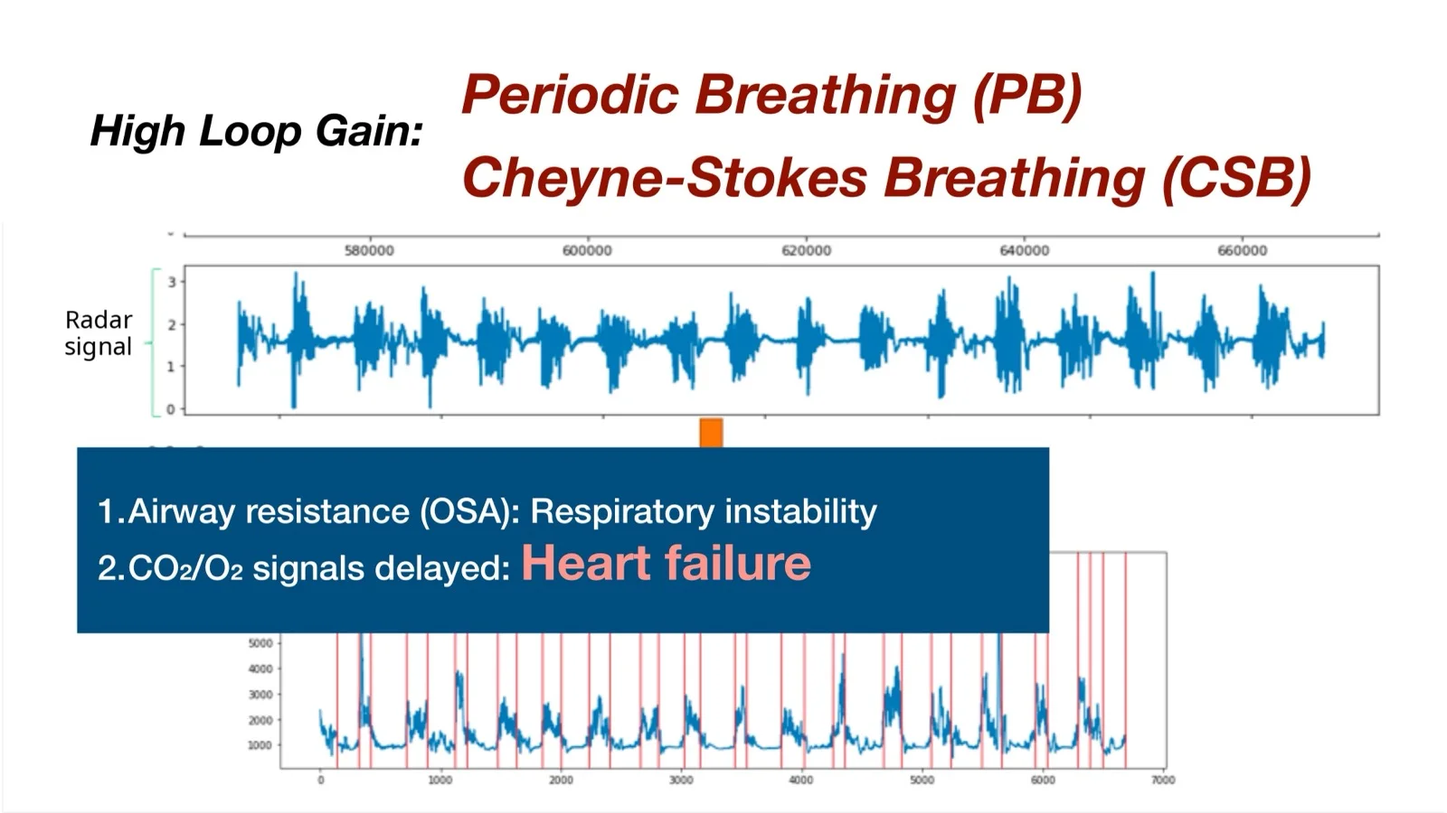
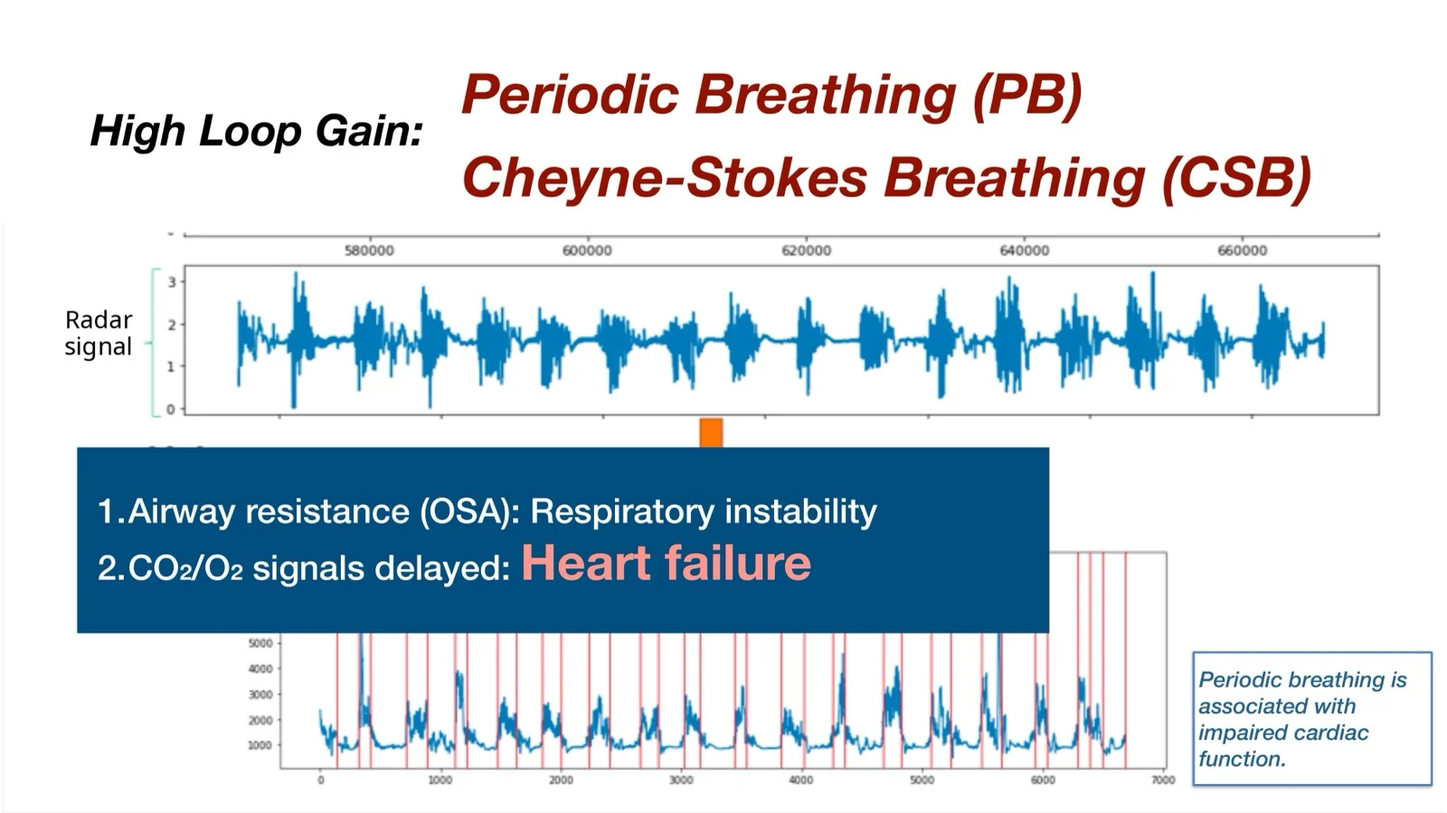
v17.4b: slide 24 box 'Periodic breathing is associated with impaired cardiac function.'; SW v27

Changed region(s): [[0.8125, 0.7778, 1.0, 0.9956]]

diff --git a/data.js b/data.js
@@ -1,2 +1,2 @@
-window.SLIDES=[{"slide": 1, "title": "Non-wearable Devices in Sleep Medicine", "sentences": ["Good morning, everyone. Thank you for inviting me to this Forum on Smart Healthcare.", "I'm Wen-Te Liu, from Pulmonary Medicine at Shuang Ho Hospital.", "Today I'll talk about non-wearable devices in sleep medicine: how we use contactless radar to check breathing during sleep."], "keywords": ["Forum", "Smart", "Healthcare", "Pulmonary", "Medicine", "Shuang", "Hospital", "wearable", "contactless", "breathing"], "seconds": 19.8, "words": 43, "image": "slides/s01.webp?v=26"}, {"slide": 2, "title": "Why is sleep testing so hard?", "sentences": ["Let me start with a simple question: why is sleep testing so hard?", "Look at the waiting room. If we suspect sleep-disordered breathing, we need objective data.", "But getting that data is a real hassle.", "Besides, putting on the sensors for the patient often takes more than 40 minutes, which makes patients anxious.", "And patients have to sleep in a very unnatural setting."], "keywords": ["40", "disordered", "breathing", "objective", "patients", "unnatural"], "seconds": 29.1, "words": 63, "image": "slides/s02.webp?v=26"}, {"slide": 3, "title": "How do today's tests compare?", "sentences": ["Let's look at the options we have now. How do today's tests compare?", "PSG covers all sleep diseases, but it needs 20 or more wires, and patients wait 1 or 2 months.", "Home sleep testing uses 3 wires. An oximeter or an ECG patch can record for 7 to 14 days.", "But they are all uncomfortable, and the patch can cause allergy.", "So we need to move past wearable sensors, from Type I to Type IV, to monitoring with nothing to wear, night after night."], "keywords": ["20", "PSG", "ECG", "diseases", "oximeter", "uncomfortable", "wearable", "monitoring"], "seconds": 39.2, "words": 85, "image": "slides/s03.webp?v=26"}, {"slide": 4, "title": "Wearable sensors for sleep monitoring", "sentences": ["And it's not only clinical tests. There are also many wearable sensors for sleep monitoring.", "They track brain activity, heart activity, movement, respiration, and blood oxygen.", "But every one of them has to be worn on the body.", "So the question is: could non-wearables work?"], "keywords": ["wearable", "monitoring", "activity", "movement", "respiration", "wearables"], "seconds": 20.8, "words": 45, "image": "slides/s04.webp?v=26"}, {"slide": 5, "title": "Radar principle diagram", "sentences": ["Our answer is radar. Here is how it works.", "The radar sends a signal from Tx, and picks up the reflection at Rx.", "When the chest moves a little, the received signal changes, in its time of flight, or ToF, and its phase.", "From the changes, we rebuild the breathing signal, with no wires."], "keywords": ["reflection", "received", "breathing"], "seconds": 24.9, "words": 54, "image": "slides/s05.webp?v=26"}, {"slide": 6, "title": "Here's how it looks at the bedside", "sentences": ["And here's how it looks at the bedside.", "The radar can go on the wall above the bed, on an arm, or on a floor stand.", "Nothing touches the patient."], "keywords": [], "seconds": 13.8, "words": 30, "image": "slides/s06.webp?v=26"}, {"slide": 7, "title": "Our three published studies: sleep lab, home, and heart", "sentences": ["With this setup, our team has done three published studies: sleep lab, home, and heart.", "How it works: a 24-GHz continuous-wave radar, plus deep neural decision trees.", "In Study 1, in the sleep lab, we compared the radar side by side with PSG in 196 patients, and got a strong correlation, r = 0.91.", "In Study 2, we tested 80 patients at home, for 147 nights, with no professional needed to set it up.", "In Study 3, with 72 patients, when the radar picked up periodic breathing, it was linked to lower LVEF."], "keywords": ["24", "196", "0.91", "80", "147", "72", "GHz", "PSG", "LVEF", "Study", "published", "continuous-wave"], "seconds": 42.9, "words": 93, "image": "slides/s07.webp?v=26"}, {"slide": 8, "title": "Study 1: Testing it in the hospital", "sentences": ["Let's start with Study 1: testing it in the hospital.", "Our team published this study in 2024.", "We compared the radar with PSG in 196 patients.", "The setting was a tightly controlled lab, with no outside noise. So we get a clean baseline."], "keywords": ["2024", "196", "PSG", "Study", "hospital", "published", "compared", "patients", "controlled", "baseline"], "seconds": 19.8, "words": 43, "image": "slides/s08.webp?v=26"}, {"slide": 9, "title": "Radar turns tiny chest movements into breathing signals", "sentences": ["Before the results, let's look at the most important question: how does the radar see the breathing?", "It turns tiny chest movements into breathing signals.", "In panel A, normal breathing gives a steady, regular wave.", "Panel B shows a respiratory event. During the apnea episode, the wave gets very small, and then breathing comes back.", "This looks simple. But in real life, it's not simple at all."], "keywords": ["breathing", "movements", "respiratory"], "seconds": 30.9, "words": 67, "image": "slides/s09.webp?v=26"}, {"slide": 10, "title": "Sleep tests watch airflow. Radar watches the chest.", "sentences": ["Why? Because sleep tests watch airflow, while radar watches the chest. They are two different signals.", "In standard scoring, airflow stops, that's apnea, or gets shallow, that's hypopnea. We only see these events when we measure airflow.", "Radar senses the chest rising and falling, not airflow.", "And every patient is different: tall or short, thin or heavy, lying on the back or on the side.", "So if we use a \"normal\" breathing size, and the usual apnea and hypopnea rules, on chest motion, the results can be far off.", "There's one more problem. In an obstructive event, the upper airway is blocked. At first, chest motion drops a lot.", "But as time goes on, the body starts to struggle to breathe.", "A standard sleep test sees no airflow. But the radar sees the chest moving again.", "So judging apnea by the size of chest motion has a big error. This is the biggest blind spot.", "In our first year with the engineering team, we tried many methods. Nothing worked, and we almost gave up.", "The way out was this: the radar has to spot a typical pattern of chest-motion changes.", "That pattern ends with the recovery surge: when an event ends, the airway opens, and the person takes one big breath.", "Let me show you a short video of what this looks like on the radar."], "keywords": ["Radar", "different", "standard", "hypopnea", "obstructive"], "seconds": 104.3, "words": 226, "image": "slides/s10.webp?v=26"}, {"slide": 11, "title": "Video: the radar during an obstructive apnea (1:54)", "sentences": ["So that's the recovery surge the radar picks up."], "keywords": [], "seconds": 4.2, "words": 9, "image": "slides/s11.webp?v=26"}, {"slide": 12, "title": "Does the radar agree with the clinical gold standard?", "sentences": ["Now, the key question for Study 1: does the radar agree with the clinical gold standard?", "On the left is the full sleep study in the hospital, PSG. On the right, the contactless 24-GHz radar.", "We tested 196 patients, and the correlation was r = 0.91."], "keywords": ["24", "196", "0.91", "PSG", "GHz", "Study", "clinical", "standard", "hospital", "contactless", "patients", "correlation"], "seconds": 21.2, "words": 46, "image": "slides/s12.webp?v=26"}, {"slide": 13, "title": "Study 1: How accurate is it in the hospital?", "sentences": ["Beyond the correlation, Study 1 also asked: how accurate is it in the hospital?", "Here, bRDI is the BestShape Respiratory Disturbance Index, from the radar.", "The radar's bRDI and the AHI from PSG line up well, with a strong correlation.", "For moderate-to-severe OSA, the accuracy was 90.3%.", "And for severe OSA, the accuracy was 92.4%.", "If we look at multi-class prediction, the average accuracy was 83.7%."], "keywords": ["90.3%", "92.4%", "83.7%", "bRDI", "AHI", "OSA", "Study", "Respiratory"], "seconds": 30.5, "words": 66, "image": "slides/s13.webp?v=26"}, {"slide": 14, "title": "Study 2: Taking it home", "sentences": ["Now, let's leave the hospital. This brings us to Study 2: taking it home.", "At home, nothing is controlled: different sleep positions, thick blankets, noise, and no technician.", "Again, 80 patients and 147 nights, with no staff on site.", "We compared the radar with home sleep apnea testing, or HSAT.", "Real homes are messy, so we need robust signal processing."], "keywords": ["80", "147", "HSAT", "Study", "controlled", "different", "positions", "blankets", "technician", "patients", "compared", "processing"], "seconds": 27.7, "words": 60, "image": "slides/s14.webp?v=26"}, {"slide": 15, "title": "Study 2: How well does it work at home?", "sentences": ["So how well does it work at home?", "We got a strong Spearman correlation, ρ = 0.87, with p < 0.01. So bRDI_TIB tracks HSAT AHI closely, even with no one supervising.", "For consistency, on average, the difference is −5.30 events/h.", "And 93.88% of nights, that's 138 of 147, fall within the ±1.96 SD limits of agreement."], "keywords": ["0.87", "0.01", "5.30", "93.88%", "138", "147", "1.96", "bRDI", "HSAT", "AHI", "SD", "correlation"], "seconds": 26.3, "words": 57, "image": "slides/s15.webp?v=26"}, {"slide": 16, "title": "Study 2: Grading severity at home", "sentences": ["Study 2 also looked at grading severity at home.", "For moderate-to-severe OSA, the accuracy was 83.67%, with a bRDI_TIB cut-off of 21.19 events/h.", "For severe OSA, it was 93.21%, with a cut-off of 28.14 events/h.", "For multi-class prediction, the average accuracy was 78.23%. That's better than HSAT rules alone, at 72.11%."], "keywords": ["83.67%", "21.19", "93.21%", "28.14", "78.23%", "72.11%", "OSA", "bRDI", "HSAT", "Study", "severity", "moderate-to-severe"], "seconds": 23.5, "words": 51, "image": "slides/s16.webp?v=26"}, {"slide": 17, "title": "Hospital vs. home: how do they compare?", "sentences": ["Let's put the two studies side by side. Hospital vs. home: how do they compare?", "In Study 1, in the hospital, the correlation with PSG was r = 0.91, and severe OSA accuracy was 92.4%.", "In Study 2, in real homes with nothing controlled, the Spearman correlation with HSAT was ρ = 0.87, and severe OSA accuracy was 93.21%.", "So the key insight is: for severe OSA, accuracy stays above 92%, in the hospital and at home."], "keywords": ["0.91", "92.4%", "0.87", "93.21%", "92%", "PSG", "OSA", "HSAT", "Hospital", "Study", "correlation", "accuracy"], "seconds": 35.5, "words": 77, "image": "slides/s17.webp?v=26"}, {"slide": 18, "title": "TFDA clearance: where we stand", "sentences": ["Next, TFDA clearance: where we stand. The device is TFDA cleared.", "bRDI ≥ 30 is used only as a screen for suspected severe obstructive sleep apnea.", "At a cut-off of 30, the sensitivity is 90.5%, and the specificity is also 90.5%.", "Please note: this device screens for suspected severe OSA. It does not diagnose OSA on its own."], "keywords": ["30", "90.5%", "TFDA", "bRDI", "OSA", "Please", "clearance", "suspected", "obstructive", "sensitivity", "specificity", "diagnose"], "seconds": 26.8, "words": 58, "image": "slides/s18.webp?v=26"}, {"slide": 19, "title": "How do we install it?", "sentences": ["Next, a practical question: how do we install it?", "Option A is a wall-mounted bracket. It's best for fixed hospital or clinic beds.", "Option B is a floor stand. It's best for homes, and it's easy to move.", "Either way, the radar is set at 75–90 cm."], "keywords": ["75", "90", "Option", "hospital"], "seconds": 21.7, "words": 47, "image": "slides/s19.webp?v=26"}, {"slide": 20, "title": "How it all works, around the clock", "sentences": ["Once it's installed, how does it all work, around the clock?", "The radar sends data nonstop over Wi-Fi.", "The clinical dashboard shows each patient's status, movement, and abnormal vital signs in one place.", "And with automatic LINE app alerts, staff get an alert right away for abnormal values or bed exits."], "keywords": ["LINE", "clinical", "dashboard", "movement", "abnormal", "automatic"], "seconds": 23.5, "words": 51, "image": "slides/s20.webp?v=26"}, {"slide": 21, "title": "Study 3: Can breathing tell us about the heart?", "sentences": ["Now let's turn to the heart. Study 3 asks: can breathing tell us about the heart?", "This study had 72 patients, and it was published by our team in 2025.", "Here's what we found. When the radar picks up abnormal breathing, especially periodic breathing, or Cheyne-Stokes, it's linked to a lower LVEF.", "Just to be clear: this is an early-warning idea for heart failure, based on associations.", "It isn't validated yet for diagnosis or prediction."], "keywords": ["72", "2025", "LVEF", "Study", "Cheyne", "Stokes", "breathing", "published", "abnormal", "especially", "periodic", "associations"], "seconds": 34.6, "words": 75, "image": "slides/s21.webp?v=26"}, {"slide": 22, "title": "Decoding periodic breathing (PB)", "sentences": ["So what exactly is periodic breathing?", "Look at the top. Normal breathing is steady, with even waves.", "Now look below. In periodic breathing, the breathing grows and fades: a phase of heavy breathing, then an apnea, again and again.", "One heavy-breathing phase plus one apnea makes one cycle. The time it takes is the PB cycle length.", "Periodic breathing is often seen in heart failure.", "From the continuous radar signal, we can measure this cycle length, night after night.", "And this number may give us a window into how well the heart pumps."], "keywords": ["PB", "Normal", "Periodic", "breathing"], "seconds": 42.9, "words": 93, "image": "slides/s22.webp?v=26"}, {"slide": 23, "title": "High loop gain: PB / CSB in a radar recording", "sentences": ["Here's what it looks like in a real radar recording.", "This is high loop gain: periodic breathing. The specific type is also called Cheyne-Stokes breathing.", "On top is the raw radar signal. You can see the breathing grow and fade, over and over.", "Then our algorithm finds each PB cycle. Each red line marks one cycle it detected.", "So the cycle length can be measured automatically."], "keywords": ["PB", "Cheyne", "Stokes", "periodic", "breathing", "algorithm"], "seconds": 30.5, "words": 66, "image": "slides/s23.webp?v=26"}, {"slide": 24, "title": "Two reasons breathing swings: OSA and heart failure", "sentences": ["But why does breathing swing like this? The title gives a clue: high loop gain.", "Our breathing is run by a feedback loop. The brain sends the signal to breathe. The lungs change the CO2 level. Then the blood carries that change back to the sensors that control breathing.", "High loop gain means this loop overreacts. And there are two main reasons.", "First, airway resistance, like in OSA. The airway keeps closing and opening. The body overreacts, then underreacts. Too much, then too little. So breathing becomes unstable.", "Second, heart failure. This is the one we care about today.", "When the heart is weak, blood moves more slowly. So the CO2 and oxygen signals arrive late.", "The brain is always one step behind. It breathes too much, then too little.", "That's why the radar signal grows and fades, over and over.", "And the red lines below mark each cycle. Keep that cycle length in mind.", "So periodic breathing is associated with poorer heart function. It's an association, not a diagnosis.", "Just to be clear, our radar does not measure CO2 or oxygen. It only sees the breathing pattern."], "keywords": ["OSA", "CO2", "resistance"], "seconds": 86.8, "words": 188, "image": "slides/s24.webp?v=26"}, {"slide": 25, "title": "Periodic-breathing features & cycle length", "sentences": ["So how do we measure periodic breathing? We use features like the cycle length and the hyperpnea length.", "Other teams have looked at this, too. The worse the heart, the longer the cycle.", "One team looked back at CPAP data from the month before patients came to the emergency room with heart failure.", "Measured by CPAP, the cycle length increased 11 times in acute heart failure, and 8 times in chronic heart failure, compared with 1 time in a normal heart.", "And by LVEF, the cycle length goes from 49.1 seconds when LVEF is above 50, up to 85.7 seconds when LVEF is below 20.", "Again, these are associations."], "keywords": ["49.1", "50", "85.7", "20", "CPAP", "LVEF", "Measured", "features", "hyperpnea"], "seconds": 50.3, "words": 109, "image": "slides/s25.webp?v=26"}, {"slide": 26, "title": "IEEE JTEHM 2025 paper", "sentences": ["So we tested this ourselves. We put the radar in the cardiology ward, and we really saw a lot of Cheyne-Stokes breathing.", "That's our paper on evaluating cardiac impairment from abnormal respiratory patterns, using wireless radar and deep learning.", "In Table 1, we split patients by LVEF: above 50%, 47 patients, and 50% or below, 25 patients.", "The table also compares LVEF, LVEDD, and LVESD between the two groups."], "keywords": ["50%", "47", "25", "LVEF", "LVEDD", "LVESD", "Table", "evaluating", "impairment", "abnormal", "respiratory", "patterns"], "seconds": 31.8, "words": 69, "image": "slides/s26.webp?v=26"}, {"slide": 27, "title": "Putting numbers on the heart–breathing links", "sentences": ["From that paper, let's put numbers on the heart–breathing links.", "Keep in mind: these are clinical associations only.", "If RDI goes up by 1/h, LVEF goes down 0.22%, and LVESD goes up 0.14 mm.", "If the PB cycle is 1 s longer, NT-proBNP goes up 158.49 pg/mL. That's a big change, for just one second.", "LVEF goes down 0.21%, LVEDD goes up 0.11 mm, and LVESD goes up 0.16 mm."], "keywords": ["0.22%", "0.14", "158.49", "0.21%", "0.11", "0.16", "RDI", "LVEF", "LVESD", "PB", "NT", "LVEDD"], "seconds": 32.3, "words": 70, "image": "slides/s27.webp?v=26"}, {"slide": 28, "title": "What does daily screening data look like?", "sentences": ["Now, back to daily practice. What does our daily screening data look like?", "Every morning, the radar makes a report from the night before, and the team gets a LINE message from the test site.", "For each bed, it lists the bRDI, sleep time, PB%, PB events, and the average PB cycle length that we just discussed.", "On the right is the full sleep report for each patient."], "keywords": ["LINE", "bRDI", "PB", "screening"], "seconds": 31.4, "words": 68, "image": "slides/s28.webp?v=26"}, {"slide": 29, "title": "What to take home", "sentences": ["To wrap up, what should you take home?", "First, it's contactless. A 24-GHz radar can monitor breathing night after night, with nothing to wear.", "Second, it's consistent with standard tests: r = 0.91 in the hospital, and ρ = 0.87 at home.", "Third, it's a TFDA-cleared screen for suspected severe OSA, with 90.5% sensitivity.", "And finally, we found associations between periodic breathing and cardiac impairment. So it may help us watch the heart, too.", "Thank you very much. I'm happy to take your questions."], "keywords": ["24", "0.91", "0.87", "90.5%", "GHz", "TFDA", "OSA", "contactless", "breathing", "consistent"], "seconds": 38.8, "words": 84, "image": "slides/s29.webp?v=26"}];
+window.SLIDES=[{"slide": 1, "title": "Non-wearable Devices in Sleep Medicine", "sentences": ["Good morning, everyone. Thank you for inviting me to this Forum on Smart Healthcare.", "I'm Wen-Te Liu, from Pulmonary Medicine at Shuang Ho Hospital.", "Today I'll talk about non-wearable devices in sleep medicine: how we use contactless radar to check breathing during sleep."], "keywords": ["Forum", "Smart", "Healthcare", "Pulmonary", "Medicine", "Shuang", "Hospital", "wearable", "contactless", "breathing"], "seconds": 19.8, "words": 43, "image": "slides/s01.webp?v=27"}, {"slide": 2, "title": "Why is sleep testing so hard?", "sentences": ["Let me start with a simple question: why is sleep testing so hard?", "Look at the waiting room. If we suspect sleep-disordered breathing, we need objective data.", "But getting that data is a real hassle.", "Besides, putting on the sensors for the patient often takes more than 40 minutes, which makes patients anxious.", "And patients have to sleep in a very unnatural setting."], "keywords": ["40", "disordered", "breathing", "objective", "patients", "unnatural"], "seconds": 29.1, "words": 63, "image": "slides/s02.webp?v=27"}, {"slide": 3, "title": "How do today's tests compare?", "sentences": ["Let's look at the options we have now. How do today's tests compare?", "PSG covers all sleep diseases, but it needs 20 or more wires, and patients wait 1 or 2 months.", "Home sleep testing uses 3 wires. An oximeter or an ECG patch can record for 7 to 14 days.", "But they are all uncomfortable, and the patch can cause allergy.", "So we need to move past wearable sensors, from Type I to Type IV, to monitoring with nothing to wear, night after night."], "keywords": ["20", "PSG", "ECG", "diseases", "oximeter", "uncomfortable", "wearable", "monitoring"], "seconds": 39.2, "words": 85, "image": "slides/s03.webp?v=27"}, {"slide": 4, "title": "Wearable sensors for sleep monitoring", "sentences": ["And it's not only clinical tests. There are also many wearable sensors for sleep monitoring.", "They track brain activity, heart activity, movement, respiration, and blood oxygen.", "But every one of them has to be worn on the body.", "So the question is: could non-wearables work?"], "keywords": ["wearable", "monitoring", "activity", "movement", "respiration", "wearables"], "seconds": 20.8, "words": 45, "image": "slides/s04.webp?v=27"}, {"slide": 5, "title": "Radar principle diagram", "sentences": ["Our answer is radar. Here is how it works.", "The radar sends a signal from Tx, and picks up the reflection at Rx.", "When the chest moves a little, the received signal changes, in its time of flight, or ToF, and its phase.", "From the changes, we rebuild the breathing signal, with no wires."], "keywords": ["reflection", "received", "breathing"], "seconds": 24.9, "words": 54, "image": "slides/s05.webp?v=27"}, {"slide": 6, "title": "Here's how it looks at the bedside", "sentences": ["And here's how it looks at the bedside.", "The radar can go on the wall above the bed, on an arm, or on a floor stand.", "Nothing touches the patient."], "keywords": [], "seconds": 13.8, "words": 30, "image": "slides/s06.webp?v=27"}, {"slide": 7, "title": "Our three published studies: sleep lab, home, and heart", "sentences": ["With this setup, our team has done three published studies: sleep lab, home, and heart.", "How it works: a 24-GHz continuous-wave radar, plus deep neural decision trees.", "In Study 1, in the sleep lab, we compared the radar side by side with PSG in 196 patients, and got a strong correlation, r = 0.91.", "In Study 2, we tested 80 patients at home, for 147 nights, with no professional needed to set it up.", "In Study 3, with 72 patients, when the radar picked up periodic breathing, it was linked to lower LVEF."], "keywords": ["24", "196", "0.91", "80", "147", "72", "GHz", "PSG", "LVEF", "Study", "published", "continuous-wave"], "seconds": 42.9, "words": 93, "image": "slides/s07.webp?v=27"}, {"slide": 8, "title": "Study 1: Testing it in the hospital", "sentences": ["Let's start with Study 1: testing it in the hospital.", "Our team published this study in 2024.", "We compared the radar with PSG in 196 patients.", "The setting was a tightly controlled lab, with no outside noise. So we get a clean baseline."], "keywords": ["2024", "196", "PSG", "Study", "hospital", "published", "compared", "patients", "controlled", "baseline"], "seconds": 19.8, "words": 43, "image": "slides/s08.webp?v=27"}, {"slide": 9, "title": "Radar turns tiny chest movements into breathing signals", "sentences": ["Before the results, let's look at the most important question: how does the radar see the breathing?", "It turns tiny chest movements into breathing signals.", "In panel A, normal breathing gives a steady, regular wave.", "Panel B shows a respiratory event. During the apnea episode, the wave gets very small, and then breathing comes back.", "This looks simple. But in real life, it's not simple at all."], "keywords": ["breathing", "movements", "respiratory"], "seconds": 30.9, "words": 67, "image": "slides/s09.webp?v=27"}, {"slide": 10, "title": "Sleep tests watch airflow. Radar watches the chest.", "sentences": ["Why? Because sleep tests watch airflow, while radar watches the chest. They are two different signals.", "In standard scoring, airflow stops, that's apnea, or gets shallow, that's hypopnea. We only see these events when we measure airflow.", "Radar senses the chest rising and falling, not airflow.", "And every patient is different: tall or short, thin or heavy, lying on the back or on the side.", "So if we use a \"normal\" breathing size, and the usual apnea and hypopnea rules, on chest motion, the results can be far off.", "There's one more problem. In an obstructive event, the upper airway is blocked. At first, chest motion drops a lot.", "But as time goes on, the body starts to struggle to breathe.", "A standard sleep test sees no airflow. But the radar sees the chest moving again.", "So judging apnea by the size of chest motion has a big error. This is the biggest blind spot.", "In our first year with the engineering team, we tried many methods. Nothing worked, and we almost gave up.", "The way out was this: the radar has to spot a typical pattern of chest-motion changes.", "That pattern ends with the recovery surge: when an event ends, the airway opens, and the person takes one big breath.", "Let me show you a short video of what this looks like on the radar."], "keywords": ["Radar", "different", "standard", "hypopnea", "obstructive"], "seconds": 104.3, "words": 226, "image": "slides/s10.webp?v=27"}, {"slide": 11, "title": "Video: the radar during an obstructive apnea (1:54)", "sentences": ["So that's the recovery surge the radar picks up."], "keywords": [], "seconds": 4.2, "words": 9, "image": "slides/s11.webp?v=27"}, {"slide": 12, "title": "Does the radar agree with the clinical gold standard?", "sentences": ["Now, the key question for Study 1: does the radar agree with the clinical gold standard?", "On the left is the full sleep study in the hospital, PSG. On the right, the contactless 24-GHz radar.", "We tested 196 patients, and the correlation was r = 0.91."], "keywords": ["24", "196", "0.91", "PSG", "GHz", "Study", "clinical", "standard", "hospital", "contactless", "patients", "correlation"], "seconds": 21.2, "words": 46, "image": "slides/s12.webp?v=27"}, {"slide": 13, "title": "Study 1: How accurate is it in the hospital?", "sentences": ["Beyond the correlation, Study 1 also asked: how accurate is it in the hospital?", "Here, bRDI is the BestShape Respiratory Disturbance Index, from the radar.", "The radar's bRDI and the AHI from PSG line up well, with a strong correlation.", "For moderate-to-severe OSA, the accuracy was 90.3%.", "And for severe OSA, the accuracy was 92.4%.", "If we look at multi-class prediction, the average accuracy was 83.7%."], "keywords": ["90.3%", "92.4%", "83.7%", "bRDI", "AHI", "OSA", "Study", "Respiratory"], "seconds": 30.5, "words": 66, "image": "slides/s13.webp?v=27"}, {"slide": 14, "title": "Study 2: Taking it home", "sentences": ["Now, let's leave the hospital. This brings us to Study 2: taking it home.", "At home, nothing is controlled: different sleep positions, thick blankets, noise, and no technician.", "Again, 80 patients and 147 nights, with no staff on site.", "We compared the radar with home sleep apnea testing, or HSAT.", "Real homes are messy, so we need robust signal processing."], "keywords": ["80", "147", "HSAT", "Study", "controlled", "different", "positions", "blankets", "technician", "patients", "compared", "processing"], "seconds": 27.7, "words": 60, "image": "slides/s14.webp?v=27"}, {"slide": 15, "title": "Study 2: How well does it work at home?", "sentences": ["So how well does it work at home?", "We got a strong Spearman correlation, ρ = 0.87, with p < 0.01. So bRDI_TIB tracks HSAT AHI closely, even with no one supervising.", "For consistency, on average, the difference is −5.30 events/h.", "And 93.88% of nights, that's 138 of 147, fall within the ±1.96 SD limits of agreement."], "keywords": ["0.87", "0.01", "5.30", "93.88%", "138", "147", "1.96", "bRDI", "HSAT", "AHI", "SD", "correlation"], "seconds": 26.3, "words": 57, "image": "slides/s15.webp?v=27"}, {"slide": 16, "title": "Study 2: Grading severity at home", "sentences": ["Study 2 also looked at grading severity at home.", "For moderate-to-severe OSA, the accuracy was 83.67%, with a bRDI_TIB cut-off of 21.19 events/h.", "For severe OSA, it was 93.21%, with a cut-off of 28.14 events/h.", "For multi-class prediction, the average accuracy was 78.23%. That's better than HSAT rules alone, at 72.11%."], "keywords": ["83.67%", "21.19", "93.21%", "28.14", "78.23%", "72.11%", "OSA", "bRDI", "HSAT", "Study", "severity", "moderate-to-severe"], "seconds": 23.5, "words": 51, "image": "slides/s16.webp?v=27"}, {"slide": 17, "title": "Hospital vs. home: how do they compare?", "sentences": ["Let's put the two studies side by side. Hospital vs. home: how do they compare?", "In Study 1, in the hospital, the correlation with PSG was r = 0.91, and severe OSA accuracy was 92.4%.", "In Study 2, in real homes with nothing controlled, the Spearman correlation with HSAT was ρ = 0.87, and severe OSA accuracy was 93.21%.", "So the key insight is: for severe OSA, accuracy stays above 92%, in the hospital and at home."], "keywords": ["0.91", "92.4%", "0.87", "93.21%", "92%", "PSG", "OSA", "HSAT", "Hospital", "Study", "correlation", "accuracy"], "seconds": 35.5, "words": 77, "image": "slides/s17.webp?v=27"}, {"slide": 18, "title": "TFDA clearance: where we stand", "sentences": ["Next, TFDA clearance: where we stand. The device is TFDA cleared.", "bRDI ≥ 30 is used only as a screen for suspected severe obstructive sleep apnea.", "At a cut-off of 30, the sensitivity is 90.5%, and the specificity is also 90.5%.", "Please note: this device screens for suspected severe OSA. It does not diagnose OSA on its own."], "keywords": ["30", "90.5%", "TFDA", "bRDI", "OSA", "Please", "clearance", "suspected", "obstructive", "sensitivity", "specificity", "diagnose"], "seconds": 26.8, "words": 58, "image": "slides/s18.webp?v=27"}, {"slide": 19, "title": "How do we install it?", "sentences": ["Next, a practical question: how do we install it?", "Option A is a wall-mounted bracket. It's best for fixed hospital or clinic beds.", "Option B is a floor stand. It's best for homes, and it's easy to move.", "Either way, the radar is set at 75–90 cm."], "keywords": ["75", "90", "Option", "hospital"], "seconds": 21.7, "words": 47, "image": "slides/s19.webp?v=27"}, {"slide": 20, "title": "How it all works, around the clock", "sentences": ["Once it's installed, how does it all work, around the clock?", "The radar sends data nonstop over Wi-Fi.", "The clinical dashboard shows each patient's status, movement, and abnormal vital signs in one place.", "And with automatic LINE app alerts, staff get an alert right away for abnormal values or bed exits."], "keywords": ["LINE", "clinical", "dashboard", "movement", "abnormal", "automatic"], "seconds": 23.5, "words": 51, "image": "slides/s20.webp?v=27"}, {"slide": 21, "title": "Study 3: Can breathing tell us about the heart?", "sentences": ["Now let's turn to the heart. Study 3 asks: can breathing tell us about the heart?", "This study had 72 patients, and it was published by our team in 2025.", "Here's what we found. When the radar picks up abnormal breathing, especially periodic breathing, or Cheyne-Stokes, it's linked to a lower LVEF.", "Just to be clear: this is an early-warning idea for heart failure, based on associations.", "It isn't validated yet for diagnosis or prediction."], "keywords": ["72", "2025", "LVEF", "Study", "Cheyne", "Stokes", "breathing", "published", "abnormal", "especially", "periodic", "associations"], "seconds": 34.6, "words": 75, "image": "slides/s21.webp?v=27"}, {"slide": 22, "title": "Decoding periodic breathing (PB)", "sentences": ["So what exactly is periodic breathing?", "Look at the top. Normal breathing is steady, with even waves.", "Now look below. In periodic breathing, the breathing grows and fades: a phase of heavy breathing, then an apnea, again and again.", "One heavy-breathing phase plus one apnea makes one cycle. The time it takes is the PB cycle length.", "Periodic breathing is often seen in heart failure.", "From the continuous radar signal, we can measure this cycle length, night after night.", "And this number may give us a window into how well the heart pumps."], "keywords": ["PB", "Normal", "Periodic", "breathing"], "seconds": 42.9, "words": 93, "image": "slides/s22.webp?v=27"}, {"slide": 23, "title": "High loop gain: PB / CSB in a radar recording", "sentences": ["Here's what it looks like in a real radar recording.", "This is high loop gain: periodic breathing. The specific type is also called Cheyne-Stokes breathing.", "On top is the raw radar signal. You can see the breathing grow and fade, over and over.", "Then our algorithm finds each PB cycle. Each red line marks one cycle it detected.", "So the cycle length can be measured automatically."], "keywords": ["PB", "Cheyne", "Stokes", "periodic", "breathing", "algorithm"], "seconds": 30.5, "words": 66, "image": "slides/s23.webp?v=27"}, {"slide": 24, "title": "Two reasons breathing swings: OSA and heart failure", "sentences": ["But why does breathing swing like this? The title gives a clue: high loop gain.", "Our breathing is run by a feedback loop. The brain sends the signal to breathe. The lungs change the CO2 level. Then the blood carries that change back to the sensors that control breathing.", "High loop gain means this loop overreacts. And there are two main reasons.", "First, airway resistance, like in OSA. The airway keeps closing and opening. The body overreacts, then underreacts. Too much, then too little. So breathing becomes unstable.", "Second, heart failure. This is the one we care about today.", "When the heart is weak, blood moves more slowly. So the CO2 and oxygen signals arrive late.", "The brain is always one step behind. It breathes too much, then too little.", "That's why the radar signal grows and fades, over and over.", "And the red lines below mark each cycle. Keep that cycle length in mind.", "So periodic breathing is associated with poorer heart function. It's an association, not a diagnosis.", "Just to be clear, our radar does not measure CO2 or oxygen. It only sees the breathing pattern."], "keywords": ["OSA", "CO2", "resistance"], "seconds": 86.8, "words": 188, "image": "slides/s24.webp?v=27"}, {"slide": 25, "title": "Periodic-breathing features & cycle length", "sentences": ["So how do we measure periodic breathing? We use features like the cycle length and the hyperpnea length.", "Other teams have looked at this, too. The worse the heart, the longer the cycle.", "One team looked back at CPAP data from the month before patients came to the emergency room with heart failure.", "Measured by CPAP, the cycle length increased 11 times in acute heart failure, and 8 times in chronic heart failure, compared with 1 time in a normal heart.", "And by LVEF, the cycle length goes from 49.1 seconds when LVEF is above 50, up to 85.7 seconds when LVEF is below 20.", "Again, these are associations."], "keywords": ["49.1", "50", "85.7", "20", "CPAP", "LVEF", "Measured", "features", "hyperpnea"], "seconds": 50.3, "words": 109, "image": "slides/s25.webp?v=27"}, {"slide": 26, "title": "IEEE JTEHM 2025 paper", "sentences": ["So we tested this ourselves. We put the radar in the cardiology ward, and we really saw a lot of Cheyne-Stokes breathing.", "That's our paper on evaluating cardiac impairment from abnormal respiratory patterns, using wireless radar and deep learning.", "In Table 1, we split patients by LVEF: above 50%, 47 patients, and 50% or below, 25 patients.", "The table also compares LVEF, LVEDD, and LVESD between the two groups."], "keywords": ["50%", "47", "25", "LVEF", "LVEDD", "LVESD", "Table", "evaluating", "impairment", "abnormal", "respiratory", "patterns"], "seconds": 31.8, "words": 69, "image": "slides/s26.webp?v=27"}, {"slide": 27, "title": "Putting numbers on the heart–breathing links", "sentences": ["From that paper, let's put numbers on the heart–breathing links.", "Keep in mind: these are clinical associations only.", "If RDI goes up by 1/h, LVEF goes down 0.22%, and LVESD goes up 0.14 mm.", "If the PB cycle is 1 s longer, NT-proBNP goes up 158.49 pg/mL. That's a big change, for just one second.", "LVEF goes down 0.21%, LVEDD goes up 0.11 mm, and LVESD goes up 0.16 mm."], "keywords": ["0.22%", "0.14", "158.49", "0.21%", "0.11", "0.16", "RDI", "LVEF", "LVESD", "PB", "NT", "LVEDD"], "seconds": 32.3, "words": 70, "image": "slides/s27.webp?v=27"}, {"slide": 28, "title": "What does daily screening data look like?", "sentences": ["Now, back to daily practice. What does our daily screening data look like?", "Every morning, the radar makes a report from the night before, and the team gets a LINE message from the test site.", "For each bed, it lists the bRDI, sleep time, PB%, PB events, and the average PB cycle length that we just discussed.", "On the right is the full sleep report for each patient."], "keywords": ["LINE", "bRDI", "PB", "screening"], "seconds": 31.4, "words": 68, "image": "slides/s28.webp?v=27"}, {"slide": 29, "title": "What to take home", "sentences": ["To wrap up, what should you take home?", "First, it's contactless. A 24-GHz radar can monitor breathing night after night, with nothing to wear.", "Second, it's consistent with standard tests: r = 0.91 in the hospital, and ρ = 0.87 at home.", "Third, it's a TFDA-cleared screen for suspected severe OSA, with 90.5% sensitivity.", "And finally, we found associations between periodic breathing and cardiac impairment. So it may help us watch the heart, too.", "Thank you very much. I'm happy to take your questions."], "keywords": ["24", "0.91", "0.87", "90.5%", "GHz", "TFDA", "OSA", "contactless", "breathing", "consistent"], "seconds": 38.8, "words": 84, "image": "slides/s29.webp?v=27"}];
 window.QA=[{"q": "Does the radar measure oxygen saturation or CO2?", "a": "No. The radar senses chest-wall motion only. It derives breathing, heart rate and bed status; it does not measure SpO2 or CO2. Oximetry and CO2 values come from other devices."}, {"q": "How does the radar handle obstructive events, when the chest keeps moving?", "a": "It does not look for a flat line. It looks for the whole five-phase sequence: amplitude drops or stops, small struggling movements while the airway is closed, one large recovery surge, then return to normal."}, {"q": "What were the hospital results?", "a": "In 196 patients against PSG: correlation 0.91, 90.3% accuracy for moderate-to-severe OSA at a cut-off of 19.2 events per hour, 92.4% for severe OSA at 28.86, and 83.7% average accuracy for four-class prediction."}, {"q": "How did it perform at home?", "a": "In 80 patients over 147 nights against HSAT: Spearman ρ = 0.87; 83.67% accuracy for moderate-to-severe OSA and 93.21% for severe OSA; mean difference −5.30 events per hour, with 93.88% of nights within the ±1.96 SD limits of agreement."}, {"q": "Is the Bland–Altman band a confidence interval?", "a": "No. It shows limits of agreement, from −23.65 to +13.06 events per hour around a mean difference of −5.30. It describes agreement between individual nights, not uncertainty in the mean."}, {"q": "Can the radar replace polysomnography?", "a": "No. The TFDA clearance is for screening: a bRDI of 30 or more flags suspected severe OSA, with 90.5% sensitivity and 90.5% specificity. It is not a standalone diagnostic device, and PSG remains the reference standard."}, {"q": "Can the radar predict heart failure?", "a": "Not yet. In 72 patients, periodic breathing and cycle length were associated with lower LVEF and higher NT-proBNP. These are associations only, and the early-warning model is not a validated diagnostic or predictive tool."}, {"q": "What about blankets, sleep position or a bed partner?", "a": "The home study ran with real-world variables: different sleep positions, thick blankets, environmental noise and no technician, which is why robust signal processing is needed. The deck does not report bed-partner data, so I would not claim performance there."}, {"q": "How is it installed, and what does the care team see?", "a": "It uses a wall-mounted bracket or a floor stand at 75 to 90 cm. Data stream over Wi-Fi to a dashboard, and LINE notifications flag prolonged bed exit or abnormal values. Each morning the care team gets a summary of bRDI, sleep time and periodic breathing per bed."}, {"q": "How accurate is sleep staging?", "a": "The TFDA-labeled overall sleep-staging agreement is 69%. That is useful as context, but it is clearly below what we see for breathing events, so we present the radar mainly as a breathing screen."}];

diff --git a/sw.js b/sw.js
@@ -1,4 +1,4 @@
-const V='gcbme-v26';const FILES=["./", "index.html", "style.css", "app.js", "align.js", "data.js", "kp.js", "voice.js", "kpscore.js", "talk.js", "levels.json", "manifest.webmanifest", "icon-192.png", "slides/s01.webp?v=26", "slides/s02.webp?v=26", "slides/s03.webp?v=26", "slides/s04.webp?v=26", "slides/s05.webp?v=26", "slides/s06.webp?v=26", "slides/s07.webp?v=26", "slides/s08.webp?v=26", "slides/s09.webp?v=26", "slides/s10.webp?v=26", "slides/s11.webp?v=26", "slides/s12.webp?v=26", "slides/s13.webp?v=26", "slides/s14.webp?v=26", "slides/s15.webp?v=26", "slides/s16.webp?v=26", "slides/s17.webp?v=26", "slides/s18.webp?v=26", "slides/s19.webp?v=26", "slides/s20.webp?v=26", "slides/s21.webp?v=26", "slides/s22.webp?v=26", "slides/s23.webp?v=26", "slides/s24.webp?v=26", "slides/s25.webp?v=26", "slides/s26.webp?v=26", "slides/s27.webp?v=26", "slides/s28.webp?v=26", "slides/s29.webp?v=26"];
+const V='gcbme-v27';const FILES=["./", "index.html", "style.css", "app.js", "align.js", "data.js", "kp.js", "voice.js", "kpscore.js", "talk.js", "levels.json", "manifest.webmanifest", "icon-192.png", "slides/s01.webp?v=27", "slides/s02.webp?v=27", "slides/s03.webp?v=27", "slides/s04.webp?v=27", "slides/s05.webp?v=27", "slides/s06.webp?v=27", "slides/s07.webp?v=27", "slides/s08.webp?v=27", "slides/s09.webp?v=27", "slides/s10.webp?v=27", "slides/s11.webp?v=27", "slides/s12.webp?v=27", "slides/s13.webp?v=27", "slides/s14.webp?v=27", "slides/s15.webp?v=27", "slides/s16.webp?v=27", "slides/s17.webp?v=27", "slides/s18.webp?v=27", "slides/s19.webp?v=27", "slides/s20.webp?v=27", "slides/s21.webp?v=27", "slides/s22.webp?v=27", "slides/s23.webp?v=27", "slides/s24.webp?v=27", "slides/s25.webp?v=27", "slides/s26.webp?v=27", "slides/s27.webp?v=27", "slides/s28.webp?v=27", "slides/s29.webp?v=27"];
 self.addEventListener('install',e=>{e.waitUntil(caches.open(V).then(c=>c.addAll(FILES)).then(()=>self.skipWaiting()))});
 self.addEventListener('activate',e=>{e.waitUntil(caches.keys().then(ks=>Promise.all(ks.filter(k=>k!==V&&!k.startsWith('gcbme-audio')).map(k=>caches.delete(k)))).then(()=>self.clients.claim()))});
 // network-first for code (so updates show up), cache-first for images

diff --git a/voice.js b/voice.js
@@ -25,9 +25,9 @@ function index(levels) {
   ready = true;
 }
 fetch('levels.json').then(r => r.json()).then(index).catch(e => console.warn('voice index', e));
-fetch('audio/heart/durations.json?v=26').then(r => r.json()).then(d => dur = d).catch(() => { });
+fetch('audio/heart/durations.json?v=27').then(r => r.json()).then(d => dur = d).catch(() => { });
 const natural = () => settings.nvoice !== 'browser';
-const urlFor = key => `audio/${settings.nvoice}/${key}.mp3?v=26`;
+const urlFor = key => `audio/${settings.nvoice}/${key}.mp3?v=27`;
 function playKey(key) {
   const my = token; lastErr = false;
   return new Promise(resolve => {

diff --git a/talk.js b/talk.js
@@ -3,7 +3,7 @@
 'use strict';
 const APP = window.__app; if (!APP) return;
 const { SL, settings, saveSettings, esc, fmt } = APP;
-const VER = '26';
+const VER = '27';
 const $ = id => document.getElementById(id);
 const GAP_SENT = 0.3, GAP_SLIDE = 0.8;
 const VOICES = { heart: '自然女聲', michael: '自然男聲' };
